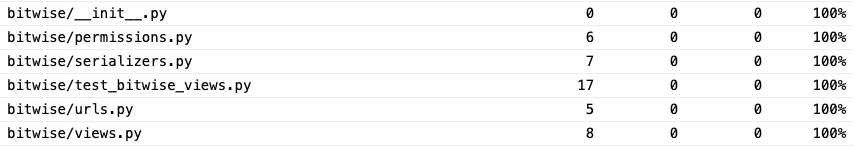
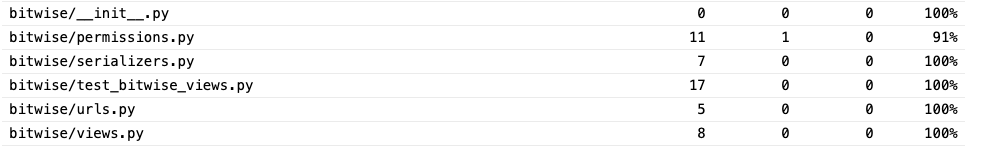
testing.md updated to include recommended & links

diff --git a/recommended/tests/test_recommended_views.py b/recommended/tests/test_recommended_views.py
@@ -19,20 +19,26 @@ class ReceivedRecommendationsListTestCase(APITestCase):
             article_title='Test Article 2', owner=self.user)
 
         self.recommendation = RecommendedArticle.objects.create(
-            recommended_by=self.user, article=self.article, recommended_to=self.user)
+            recommended_by=self.user,
+            article=self.article,
+            recommended_to=self.user)
         self.recommendation2 = RecommendedArticle.objects.create(
-            recommended_by=self.user, article=self.article2, recommended_to=self.user)
+            recommended_by=self.user,
+            article=self.article2,
+            recommended_to=self.user)
 
     def test_received_recommendations_list(self):
         """
-        endpoint returns a list of received recommendations for the authenticated user
+        endpoint returns a list of received recommendations for the
+        authenticated user
         """
         self.client.login(username="testuser", password="testpassword")
         response = self.client.get('/recomendations/')
         self.assertEqual(response.status_code, status.HTTP_200_OK)
         self.assertEqual(len(response.data['results']), 2)
         self.assertEqual(
-            response.data['results'][0]['recommending_username'], self.user.username)
+            response.data['results'][0]['recommending_username'],
+            self.user.username)
 
     def test_safe_recommendations_list(self):
         """
@@ -61,7 +67,9 @@ class RecommendArticleTestCase(APITestCase):
             article_title='Test Article', owner=self.user)
 
         self.recommendation = RecommendedArticle.objects.create(
-            recommended_by=self.user, article=self.article, recommended_to=self.user2)
+            recommended_by=self.user,
+            article=self.article,
+            recommended_to=self.user2)
 
     def test_recommend_article(self):
         """

diff --git a/links/tests/test_link_views.py b/links/tests/test_link_views.py
@@ -12,7 +12,9 @@ class LinkListTestCase(APITestCase):
         self.article = Article.objects.create(
             article_title='Test Article', owner=self.user)
         self.link = Link.objects.create(
-            link_title='Test Link', link_url='https://example.com', article=self.article, owner=self.user)
+            link_title='Test Link',
+            link_url='https://example.com',
+            article=self.article, owner=self.user)
 
     def test_link_list(self):
         """
@@ -49,9 +51,12 @@ class LinkDetailTestCase(APITestCase):
         self.user = User.objects.create_user(
             username='testuser', password='testpassword')
         self.article = Article.objects.create(
-            article_title='Test Article', owner=self.user)
+            article_title='Test Article',
+            owner=self.user)
         self.link = Link.objects.create(
-            link_title='Test Link', link_url='https://example.com', article=self.article, owner=self.user)
+            link_title='Test Link',
+            link_url='https://example.com',
+            article=self.article, owner=self.user)
 
     def test_delete_link(self):
         """

diff --git a/recommended/models.py b/recommended/models.py
@@ -12,10 +12,14 @@ class RecommendedArticle(models.Model):
     """
     created_at = models.DateTimeField(auto_now_add=True)
     recommended_by = models.ForeignKey(
-        User, on_delete=models.CASCADE, related_name='recommendations_given')
+        User,
+        on_delete=models.CASCADE,
+        related_name='recommendations_given')
     article = models.ForeignKey(Article, on_delete=models.CASCADE)
     recommended_to = models.ForeignKey(
-        User, on_delete=models.CASCADE, related_name='received_recommendations')
+        User,
+        on_delete=models.CASCADE,
+        related_name='received_recommendations')
 
     class Meta:
         unique_together = ['article', 'recommended_to']

diff --git a/links/views.py b/links/views.py
@@ -31,7 +31,8 @@ class LinkList(generics.ListCreateAPIView):
 class LinkDetail(generics.RetrieveUpdateDestroyAPIView):
     """
     - Detail the specificly requested link
-    - Uses the Detail Link serializer to convert article and link_title to readonly
+    - Uses the Detail Link serializer to convert article
+    and link_title to readonly
     - Uses IsOwnerOrReadOnly tailored permission class
     to ensure only owner can update or delete article info
     """

diff --git a/recommended/tests/test_recommended_models.py b/recommended/tests/test_recommended_models.py
@@ -27,7 +27,8 @@ class RecommendedArticleModelTest(TestCase):
         str provides expected info
         """
         recommendation = RecommendedArticle.objects.get(id=1)
-        expected_str = f'Recommended Article: {recommendation.article.article_title}'
+        expected_str = (
+            f'Recommended Article: {recommendation.article.article_title}')
         self.assertEqual(str(recommendation), expected_str)
 
     def test_recommendation_creation(self):

diff --git a/recommended/views.py b/recommended/views.py
@@ -1,7 +1,8 @@
 from rest_framework import generics
 from rest_framework.permissions import IsAuthenticated
 from bitwise.permissions import IsRecipientOrReadOnly
-from recommended.serializers import RecommendArticleSerializer, ReceivedRecommendationSerializer
+from recommended.serializers import (
+    RecommendArticleSerializer, ReceivedRecommendationSerializer)
 from .models import RecommendedArticle
 
 

diff --git a/TESTING.md b/TESTING.md
@@ -15,10 +15,12 @@ Back to Readme [here](README.md)
 
 ## Python Unit Testing
 
-Unit Testing coverage to 100%.
+Unit Testing coverage
 ![Summary Unit Tests](readme-assets/unit_testing/summary-report.png)
 
 (excluding settings and manage.py files)
+
+**Note** See Bitwise App coverage below for detail on the one missing coverage element.
 
 See below for details on each app:
 
@@ -36,9 +38,13 @@ Article app covered to 100%:
 <details>
       <summary style="font-weight:bold">Bitwise App</summary>
    
-Bitwise app covered to 100%:
+Bitwise app - One missing element:
+
+The single missed coverage element is in relation to a missing test for the IsRecipientOrReadOnly permission where the individual has SAFE_METHOD permissions. This is because the build is set up so only show recommended articles to the recipient. However, I wished to keep this permision in place for potential future changes where I may make to allow the creator to view recomendations they have made but not ammend/delete them. As a result this was left as missing coverage.
 
 ![BitWise Unit Tests](readme-assets/unit_testing/bitwise.png)<br>
+
+![BitWise Unit Test Detail](readme-assets/unit_testing/bitwise-detail.png)<br>
 
 ---
 
@@ -99,6 +105,30 @@ Profile app covered to 100%:
 
 </details>
 
+<details>
+      <summary style="font-weight:bold">Recommended App</summary>
+   
+Recommended app covered to 100%:
+
+![Recommended Unit Tests](readme-assets/unit_testing/recommended.png)<br>
+
+---
+
+</details>
+
+<details>
+      <summary style="font-weight:bold">Link App</summary>
+   
+Link app covered to 100%:
+
+![Link Unit Tests](readme-assets/unit_testing/links.png)<br>
+
+---
+
+</details>
+
+</details>
+
 ## Python Validation Testing
 
 <details>
@@ -149,13 +179,13 @@ Models:
 
 Views:
 
-![Views](readme-assets/pep8/articles/views.png)
+![Views](readme-assets/pep8/articles-tests/test-views.png)
 
 ---
 
 Serializers:
 
-![Serializers](readme-assets/pep8/articles/serializers.png)
+![Serializers](readme-assets/pep8/articles-tests/test-serializers.png)
 
 ---
 
@@ -503,11 +533,125 @@ Serializers:
 
 </details>
 
+<details>
+      <summary style="font-weight:bold">Recommended</summary>
+<br>
+
+Admin:
+
+![Admin](readme-assets/pep8/recommended/admin.png)
+
+---
+
+Models:
+
+![Models](readme-assets/pep8/recommended/models.png)
+
+---
+
+Views:
+
+![Views](readme-assets/pep8/recommended/views.png)
+
+---
+
+Serializers:
+
+![Serializers](readme-assets/pep8/recommended/serializers.png)
+
+---
+
+URLs:
+
+![URLs](readme-assets/pep8/recommended/urls.png)
+
+---
+
+</details>
+
+<details>
+      <summary style="font-weight:bold">Recommended Tests</summary>
+<br>
+
+Models:
+
+![Models](readme-assets/pep8/recommended-tests/test-models.png)
+
+---
+
+Views:
+
+![Views](readme-assets/pep8/recommended-tests/test-views.png)
+
+---
+
+</details>
+
+<details>
+      <summary style="font-weight:bold">Links</summary>
+<br>
+
+Admin:
+
+![Admin](readme-assets/pep8/links/admin.png)
+
+---
+
+Models:
+
+![Models](readme-assets/pep8/links/models.png)
+
+---
+
+Views:
+
+![Views](readme-assets/pep8/links/views.png)
+
+---
+
+Serializers:
+
+![Serializers](readme-assets/pep8/links/serializers.png)
+
+---
+
+URLs:
+
+![URLs](readme-assets/pep8/links/urls.png)
+
+---
+
+</details>
+
+<details>
+      <summary style="font-weight:bold">Links Tests</summary>
+<br>
+
+Models:
+
+![Models](readme-assets/pep8/links-tests/test-model.png)
+
+---
+
+Views:
+
+![Views](readme-assets/pep8/links-tests/test-views.png)
+
+---
+
+Serializers:
+
+![Serializers](readme-assets/pep8/links-tests/test-serializers.png)
+
+---
+
+</details>
+
 ## User Story Testing
 
 ### User Stories Acceptance Criteria
 
-Each User Story documented (as an issue) in the Backend Project Iteration [here](https://github.com/Joe-Collins-1986/BitWise-DRF/projects?query=is%3Aclosed) has Acceptance Criteria documented on GitHub which needed to be achieved before marking the User Sory to complete.
+Each User Story documented (as an issue) in the Backend Project Iterations [here](https://github.com/Joe-Collins-1986/BitWise-DRF/projects?query=is%3Aclosed) has Acceptance Criteria documented on GitHub which needed to be achieved before marking the User Sory to complete.
 
 To view these access the User Story Issues.
 
@@ -659,3 +803,25 @@ Example Screenshot of User Story in Iteration:
 | all profiles followed by profile 1             | ✅ [link](https://bitwise-code-blog.herokuapp.com/profiles/?owner__followed__owner__profile=1)     |
 | All profiles that have knowledge of HTML       | ✅ [link](https://bitwise-code-blog.herokuapp.com/profiles/?owner__languages__language=HTML)       |
 | specific profile                               | ✅ [link](https://bitwise-code-blog.herokuapp.com/profiles/1/)                                     |
+
+### Recommendations:
+
+#### CRUD TESTING IN DEV ENV
+
+| CRUD recommendation Testing          | ✅  |
+| ------------------------------------ | --- |
+| Create                               | ✅  |
+| Read                                 | ✅  |
+| Delete                               | ✅  |
+| Create restricted to authorised user | ✅  |
+| Delete restricted to recipient       | ✅  |
+
+#### GET RECOMMENDATIONS
+
+To test the following links you must be logged in to an account with recommendations assigned to you or will recieve "Authentication credentials were not provided."
+
+| recommendations                                | Result                                                                       |
+| ---------------------------------------------- | ---------------------------------------------------------------------------- |
+| results returned                               | ✅ [link](https://bitwise-code-blog.herokuapp.com/recomendations/)           |
+| page filter                                    | ✅ [link](https://bitwise-code-blog.herokuapp.com/recomendations/?page=1)    |
+| invalid page returns "detail": "Invalid page." | ✅ [link](https://bitwise-code-blog.herokuapp.com/recomendations/?page=9999) |

diff --git a/README.md b/README.md
@@ -501,7 +501,7 @@ The FollowerDetail is a view that handles the retrieval and deletion of a specif
   The FollowerDetail view uses the same FollowerSerializer for serializing and deserializing follower data, just like the FollowerList view.
 
 - Uses IsOwnerOrReadOnly tailored permission class:
-  The permission_classes attribute is set to [IsOwnerOrReadOnly], which ensures that only the owner of the follower object can delete it. This permission class allows read-only access to anyone but requires the owner's authentication for write (delete) operations.
+  The permission_classes attribute is set to IsOwnerOrReadOnly, which ensures that only the owner of the follower object can delete it. This permission class allows read-only access to anyone but requires the owner's authentication for write (delete) operations.
 
 - No need for update; followers work by deleting and creating a new follower if required:
   The FollowerDetail view does not support update operations. Instead, to update a follower, a new follower object needs to be created while deleting the existing one if necessary.
@@ -530,7 +530,7 @@ The LanguageList is a view that handles the listing and creation of languages. I
 - The permission classes used for this view allows unauthenticated users to perform read operations (IsAuthenticatedOrReadOnly).
 
 - Filter backend for owner\_\_profile:
-  The LanguageList view uses the DjangoFilterBackend for filtering languages based on the owner's profile. The filter_backends attribute is set to [DjangoFilterBackend], and the filterset_fields attribute is set to ['owner\_\_profile']. This allows languages to be assigned to the profile page of the language owner.
+  The LanguageList view uses the DjangoFilterBackend for filtering languages based on the owner's profile. The filter_backends attribute is set to DjangoFilterBackend, and the filterset_fields attribute is set to 'owner\_\_profile'. This allows languages to be assigned to the profile page of the language owner.
 
 This view can be used to list all the languages, create new language objects if they are authenticated.
 
@@ -547,7 +547,7 @@ The LanguageDetail is a view that handles the retrieval, update, and deletion of
   The LanguageDetail view uses the LanguageDetailSerializer for serializing and deserializing language data.
 
 - Uses IsOwnerOrReadOnly tailored permission class:
-  The permission_classes attribute is set to [IsOwnerOrReadOnly], which ensures that only the owner of the language object can update or delete its information. This permission class allows read-only access to anyone but requires the owner's authentication for write (update and delete) operations.
+  The permission_classes attribute is set to IsOwnerOrReadOnly, which ensures that only the owner of the language object can update or delete its information. This permission class allows read-only access to anyone but requires the owner's authentication for write (update and delete) operations.
 
 This view can be used to view detailed information about a specific language, update its data if they are the owner, and delete the language if necessary.
 
@@ -587,7 +587,7 @@ The LikeDetail view is a Django view that handles the retrieval and deletion of 
   The LikeDetail view uses the same LikeSerializer for serializing and deserializing like data, just like the LikeList view.
 
 - Uses IsOwnerOrReadOnly tailored permission class:
-  The permission_classes attribute is set to [IsOwnerOrReadOnly], which ensures that only the owner of the like object can delete it. This permission class allows read-only access to anyone but requires the owner's authentication for write (delete) operations.
+  The permission_classes attribute is set to IsOwnerOrReadOnly, which ensures that only the owner of the like object can delete it. This permission class allows read-only access to anyone but requires the owner's authentication for write (delete) operations.
 
 - No need for update; likes work by deleting and creating a new like if required:
 
